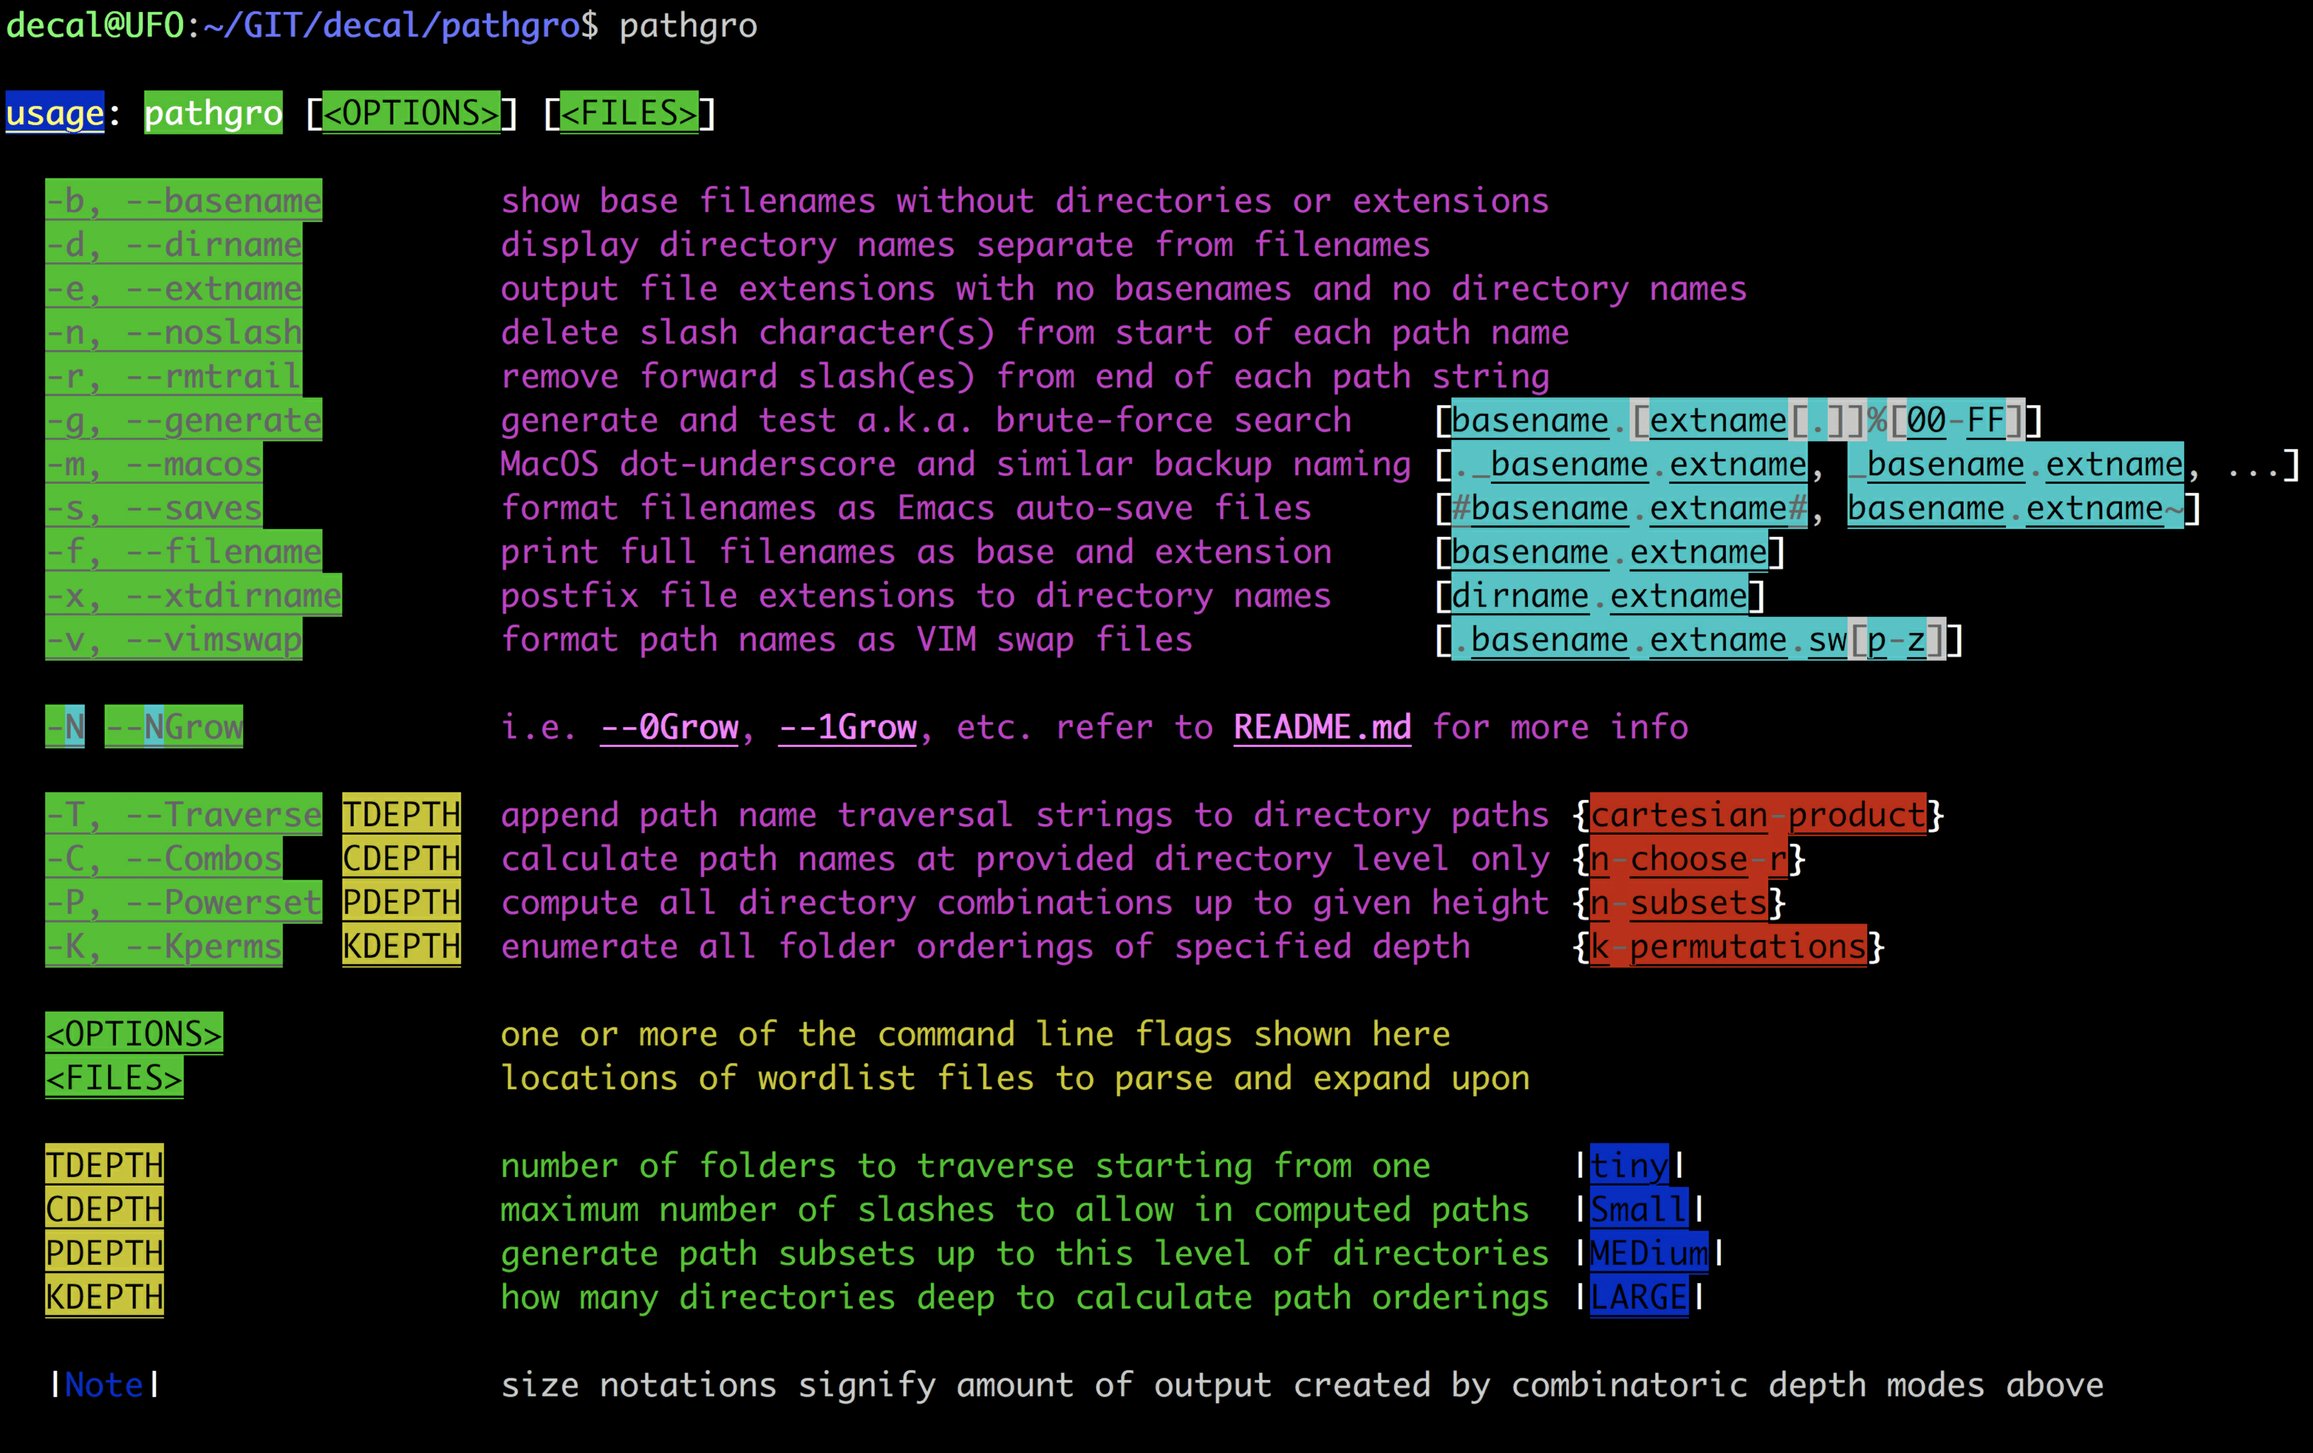
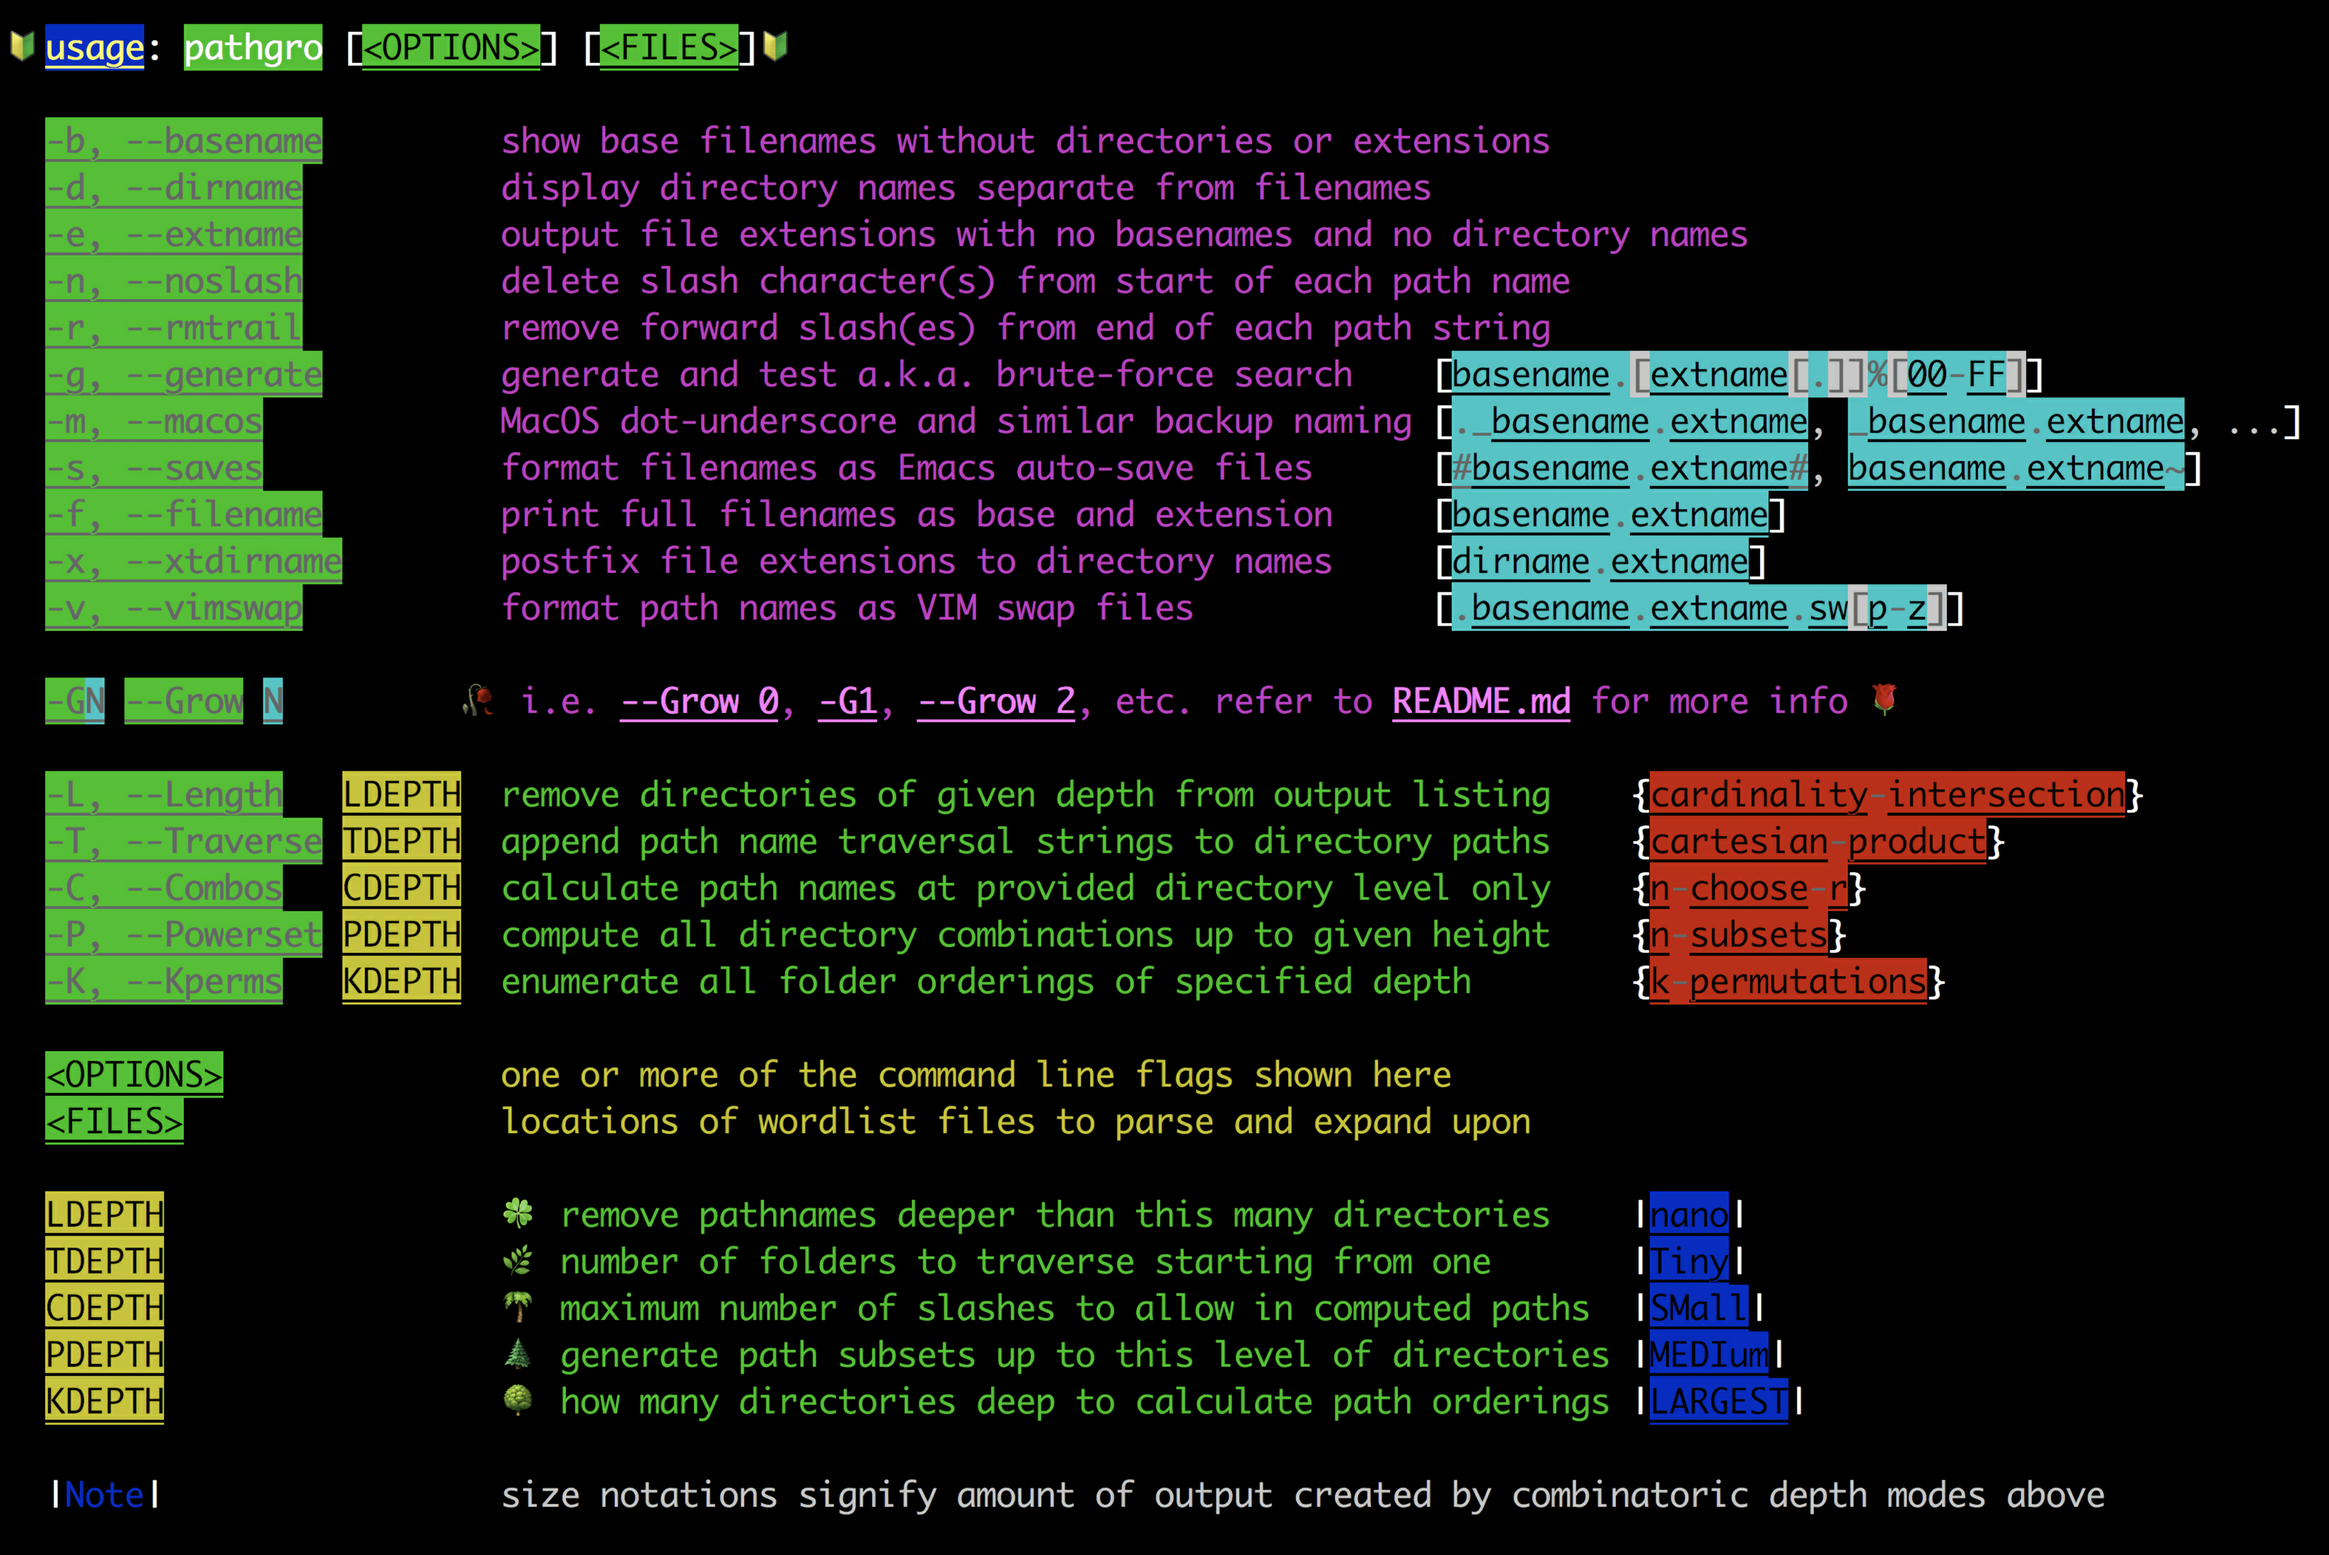
Add reinstall target to Makefile Note GNU Guile in ISSUE_TEMPLATE markdown Replaced old usage screenshot with new one to compensate for new cosmetics

Changed region(s): [[0.0, 0.0, 0.9624, 0.9671]]

diff --git a/ISSUE_TEMPLATE.md b/ISSUE_TEMPLATE.md
@@ -7,11 +7,12 @@
 ## Steps to Reproduce the Problem
 
   1.
-  1.
-  1.
+  2.
+  3.
 
 ## Specifications
 
   - Version:
   - Platform:
-  - Subsystem:
+  - Subsystem: 
+    * This should note the version of GNU Guile and its prerequisites
